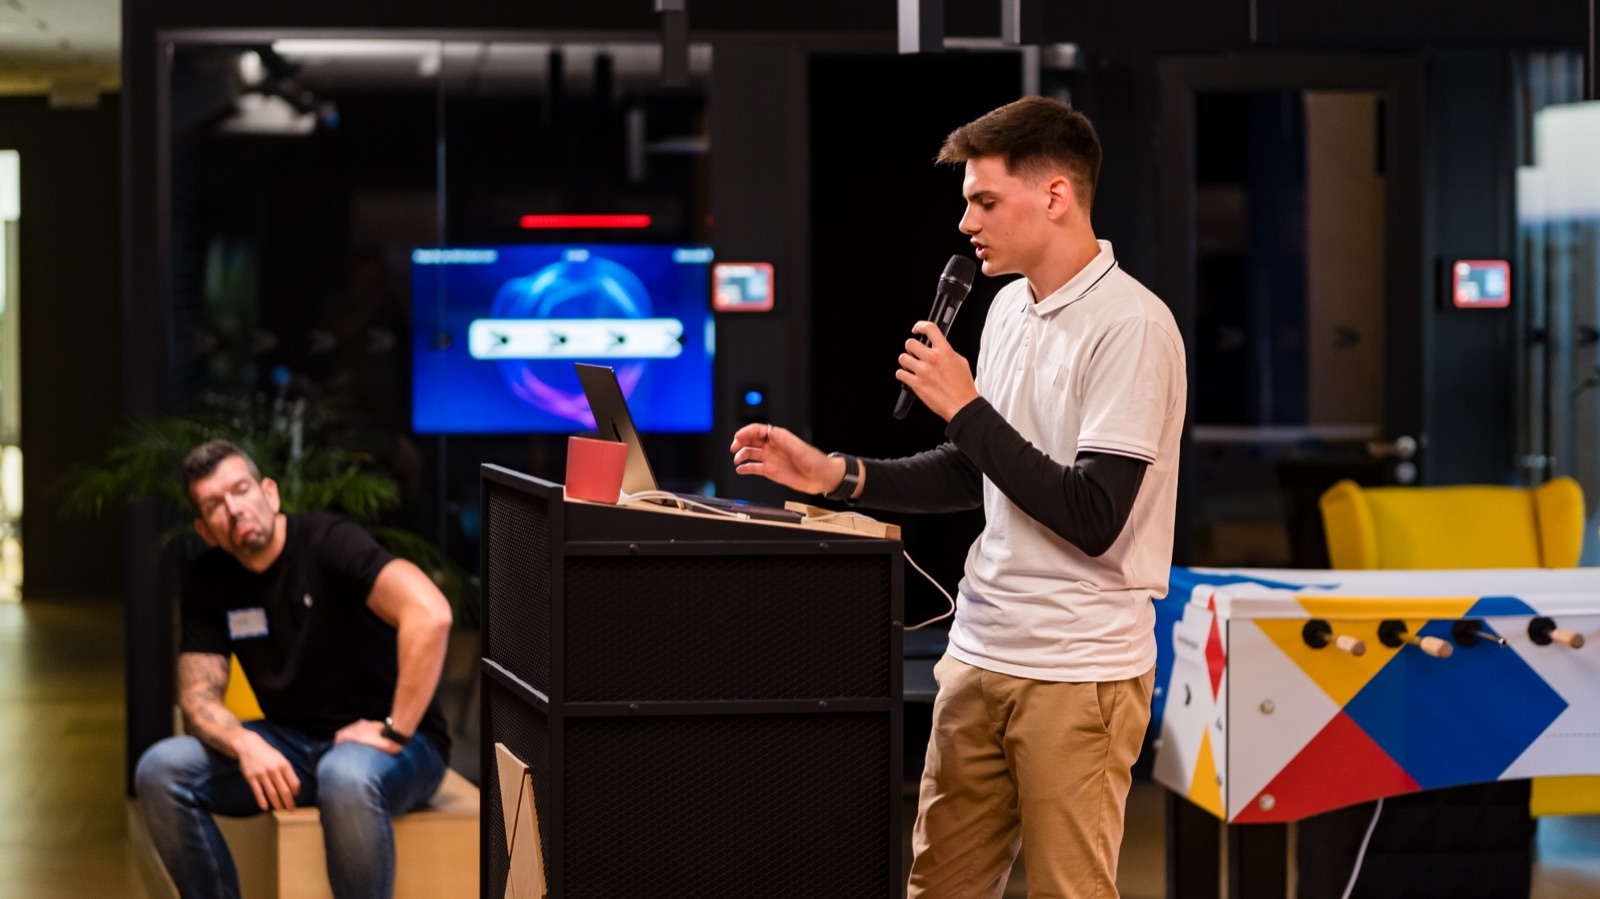
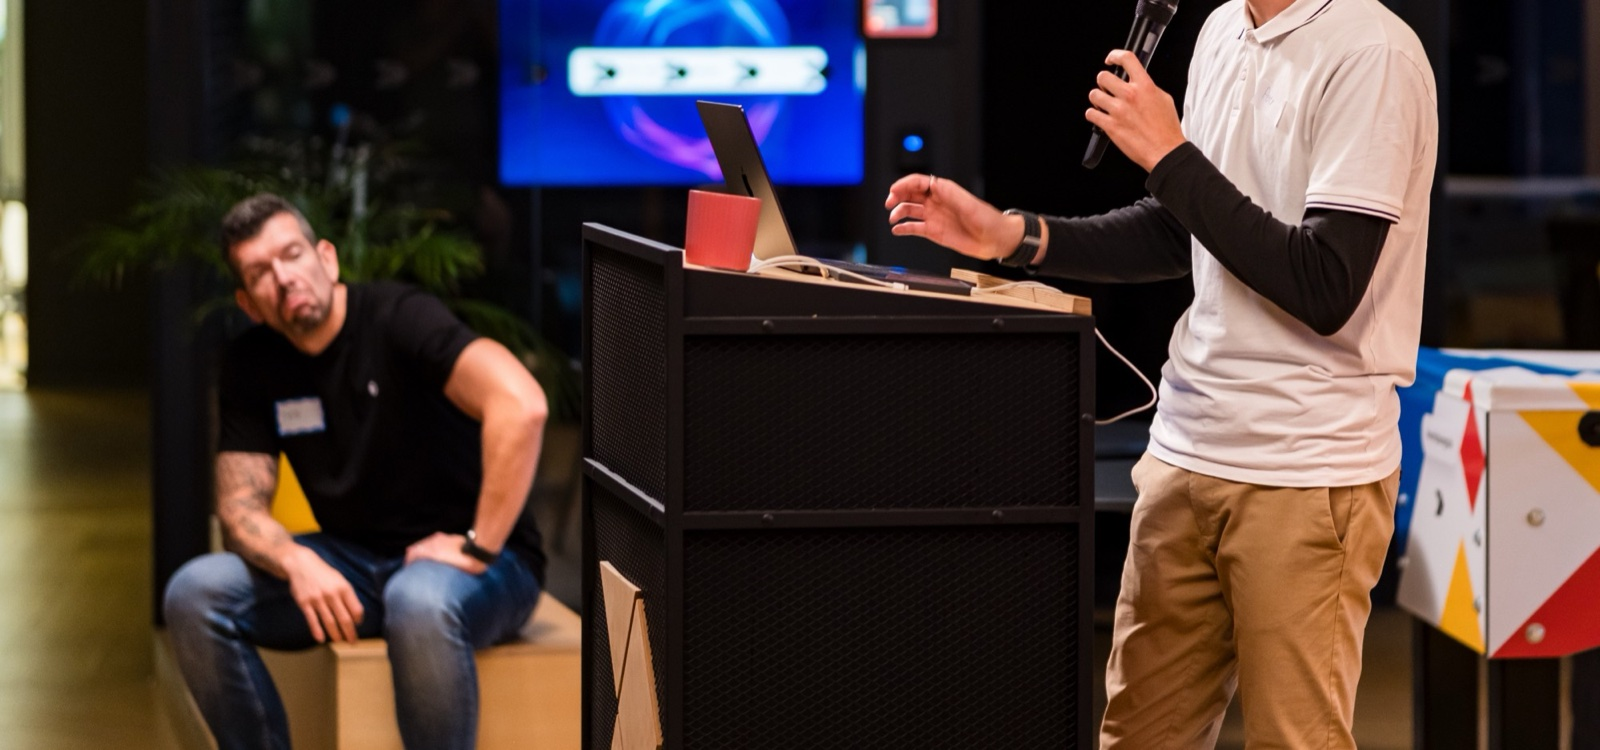
Ivo beat uses Petr's own crop: Ivo listening, the lectern, Petr from the shoulders down
Wide (2.13:1), so it sits whole across the wall, slightly zoomed and shifted right of the copy.

diff --git a/src/main.js b/src/main.js
@@ -131,8 +131,8 @@ function coverInto(src, sw, sh, r, fx, fy, ax = .5, zoom = 1){
   faceG.save(); faceG.beginPath(); faceG.rect(r.x, r.y, r.w, r.h); faceG.clip(); faceG.drawImage(src, x, y, dw, dh); faceG.restore();
   return { x, y, w: dw, h: dh };
 }
-function containInto(src, sw, sh, r){
-  const s = Math.min(r.w/sw, r.h/sh), dw = sw*s, dh = sh*s, x = r.x + (r.w - dw)/2, y = land ? r.y + r.h - dh : r.y;
+function containInto(src, sw, sh, r, zoom = 1, dx = 0){
+  const s = Math.min(r.w/sw, r.h/sh)*zoom, dw = sw*s, dh = sh*s, x = r.x + (r.w - dw)/2 + dx*r.w, y = land ? r.y + r.h - dh : r.y;
   faceG.drawImage(src, x, y, dw, dh); return { x, y, w: dw, h: dh };
 }
 // Two reels share the face canvas: the school (section 7) and the hackathon (section 8). Story time `st` holds
@@ -153,7 +153,7 @@ const REELS = [
   { from: LETTERS_AT + .12, to: HACK_ST + 1.2, at: [0, .17, .33, .5, .66, .82].map(x => HACK_ST + x), items: [
     { src:'video', full:true, fx:.3,  fy:.45, zoom:1.4 }, // I stand at the left of the frame: zoom so I can sit right of the copy
     { src:'pitch', full:true, fx:.62, fy:.35 },
-    { src:'ivo',   full:true, fx:.42, fy:.5 }, // the whole frame: Ivo listening on the left, me pitching
+    { src:'ivo',   full:true, contain:true, zoom:1.08, dx:.06 }, // Petr's crop: Ivo listening, the lectern, me from the shoulders down; wide, so it sits whole, shifted right of the copy
     { src:'kate',  full:true, fx:.47, fy:.4 },
     { src:'prize', full:true, fx:.55, fy:.4 },
     { src:'group', full:true, contain:true, me:true }
@@ -174,7 +174,7 @@ function drawReelItem(it){
   const ax = it.full && land ? .6 : .5;
   if (it.src === 'video'){ if (s.readyState >= 2) coverInto(s, s.videoWidth, s.videoHeight, r, it.fx, it.fy, ax, it.zoom); return; }
   if (it.contain){
-    const d = containInto(s, s.width, s.height, r);
+    const d = containInto(s, s.width, s.height, r, it.zoom, land ? it.dx || 0 : 0);
     if (it.me) meUV = { u: (d.x + ME_IN_GROUP.x*d.w)/faceC.width, v: 1 - (d.y + ME_IN_GROUP.y*d.h)/faceC.height };
   } else coverInto(s, s.width, s.height, r, it.fx, it.fy, ax, it.zoom);
 }
